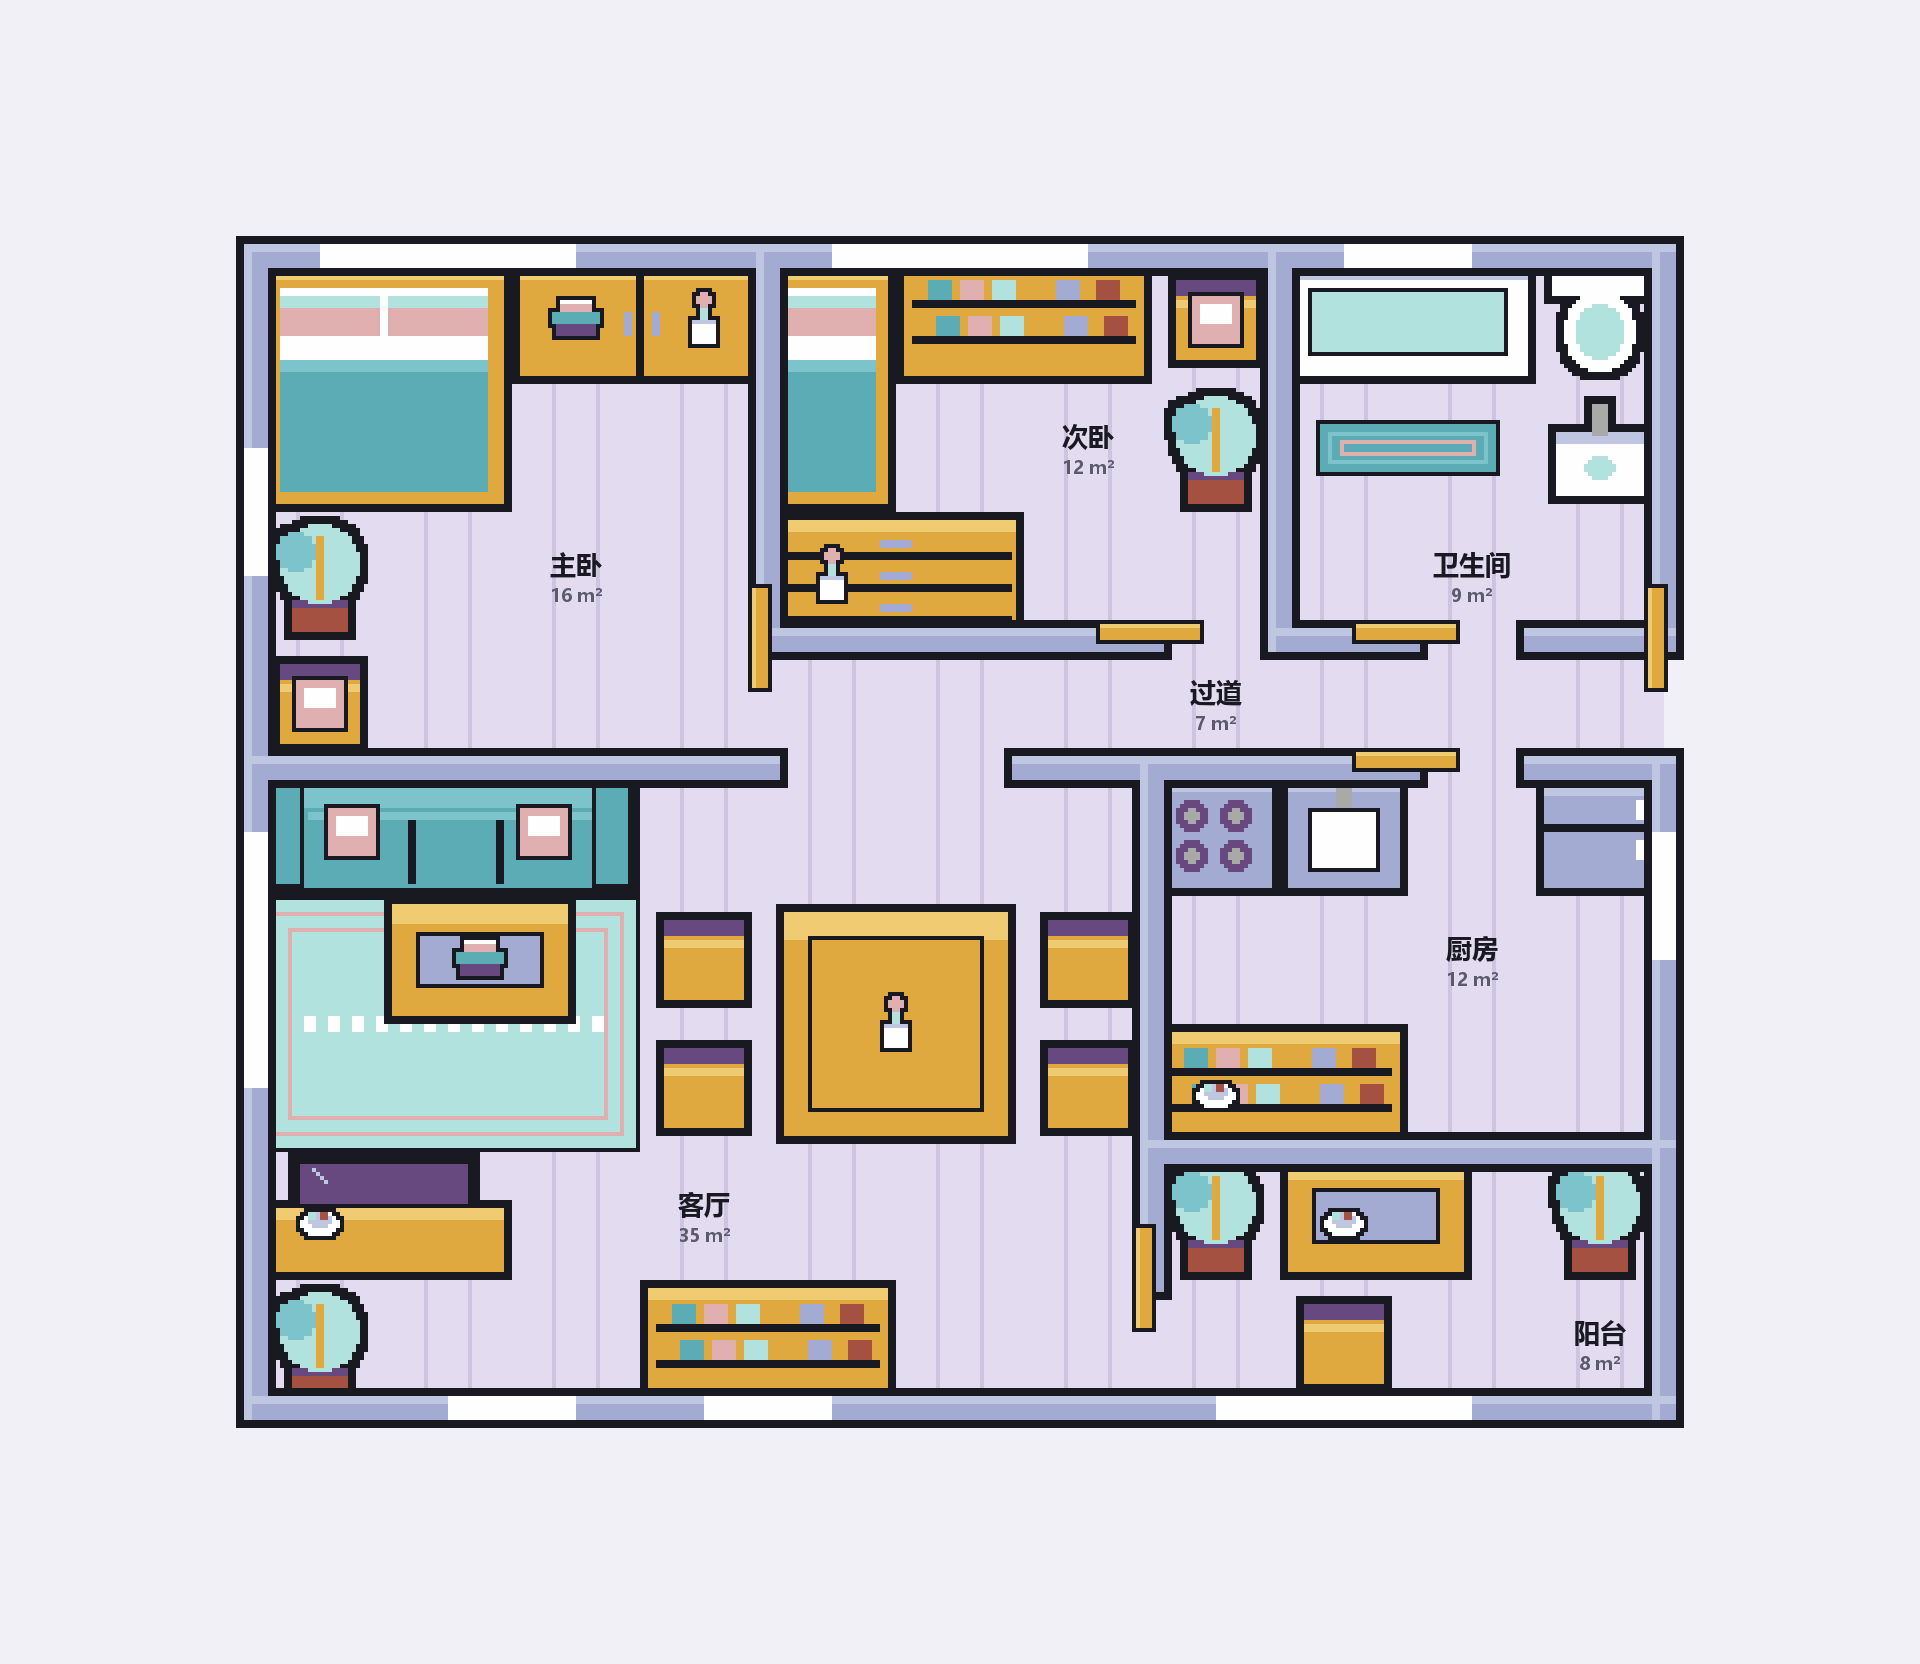
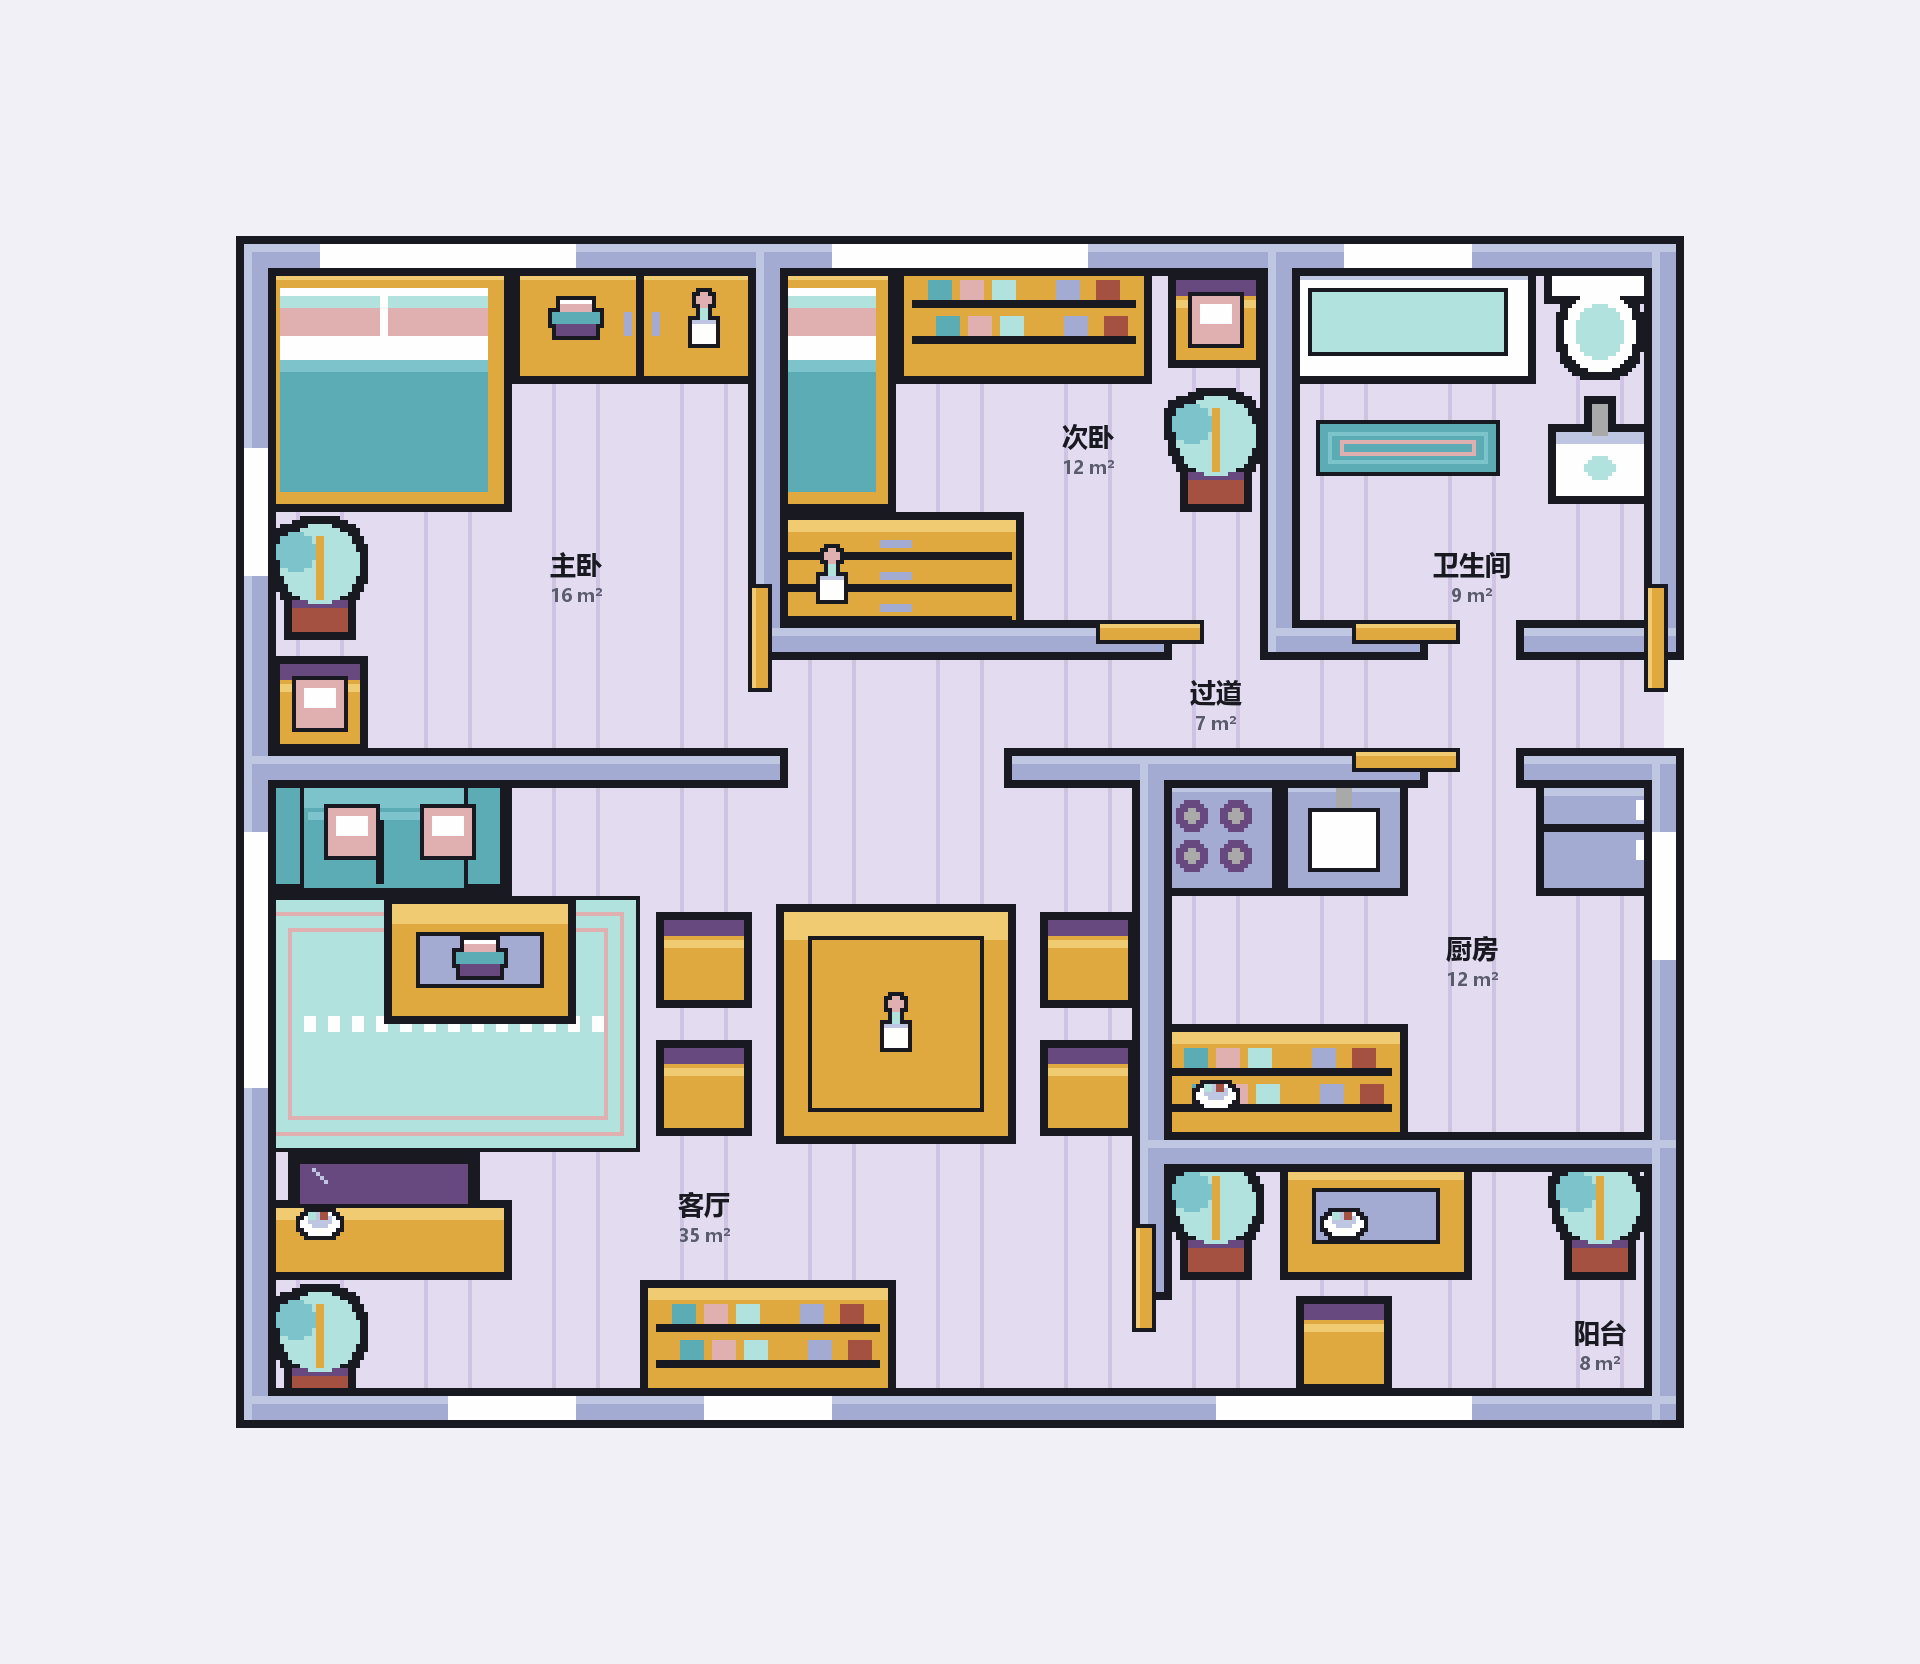
feat(furniture): 沙发从三格改成两格
sofa() 的画布 96x32 -> 64x32：扶手移到 x 2..11 与 x 52..61，坐垫缝从两条改成中间
一条，两个座位。重出资产后逐个对 SHA-256，23 件里只有 sofa_1x.png 变了，其余一字
未动。

户型图跟着挪两只靠垫。原来在 (0.5,4.25) 与 (2.0,4.25)，后者落在新 footprint 之外，
audit() 的宿主检查会直接拒（"摆件底下没有承托它的面"），改到 (1.25,4.25)。沙发让出
(2,4) 那一格，客厅北排因此多出一段走道。

README §2 顺手改了写法：原来抄了一串每件家具的尺寸，这次要改数字，下次改别的还会
再错一遍——那句现在指向 tiles/furniture/furniture.json，那张表由 --manifest 每次
重发，抄进文档的副本必然过期，改沙发就是现成的例子。记忆同步。

门：flatplan walls resolved、furniture.json pieces=23 无 STALE、
check_roster ALL CHECKS PASS。

Changed region(s): [[0.1875, 0.4688, 0.3438, 0.5625]]

diff --git a/tools/gen_furniture.py b/tools/gen_furniture.py
@@ -196,16 +196,17 @@ def dresser():
 
 # --------------------------------------------------------- living room
 def sofa():
-    p = Piece(96, 32)
-    p.rect(2, 2, 93, 29, CLOTH)
-    p.rect(2, 2, 93, 9, CLOTH_HI)                 # backrest
+    """A two-seater: 64x32 = two cells. It was 96x32 (three cells) until the user
+    asked for two, which is why the seam count is one and not two."""
+    p = Piece(64, 32)
+    p.rect(2, 2, 61, 29, CLOTH)
+    p.rect(2, 2, 61, 9, CLOTH_HI)                 # backrest
     p.rect(2, 2, 11, 29, CLOTH)                   # arms
-    p.rect(84, 2, 93, 29, CLOTH)
+    p.rect(52, 2, 61, 29, CLOTH)
     p.frame(2, 2, 11, 29, INK)
-    p.frame(84, 2, 93, 29, INK)
-    for x in (38, 60):
-        p.rect(x, 11, x + 1, 28, INK)             # cushion seams
-    p.rect(13, 11, 83, 12, CLOTH_HI)
+    p.frame(52, 2, 61, 29, INK)
+    p.rect(30, 11, 31, 28, INK)                   # the seam between the two seats
+    p.rect(13, 11, 50, 12, CLOTH_HI)
     p.ink()
     return p
 

diff --git a/tools/gen_flatplan.py b/tools/gen_flatplan.py
@@ -174,7 +174,7 @@ FURNITURE = [
     ("dining_table", 4, 5), ("chair", 3, 5), ("chair", 6, 5),
     ("chair", 3, 6), ("chair", 6, 6),
     ("shelf_unit", 3, 8), ("plant", 0, 8),          # plant moved off the 阳台 door
-    ("cushion", 0.5, 4.25), ("cushion", 2.0, 4.25),
+    ("cushion", 0.5, 4.25), ("cushion", 1.25, 4.25),
     ("books", 1.5, 5.25), ("vase", 4.75, 5.75), ("bowl", 0.25, 7.25),
     # 厨房 (7..10, 4..6)
     ("stove", 7, 4), ("sink", 8, 4), ("fridge", 10, 4), ("shelf_unit", 7, 6),
